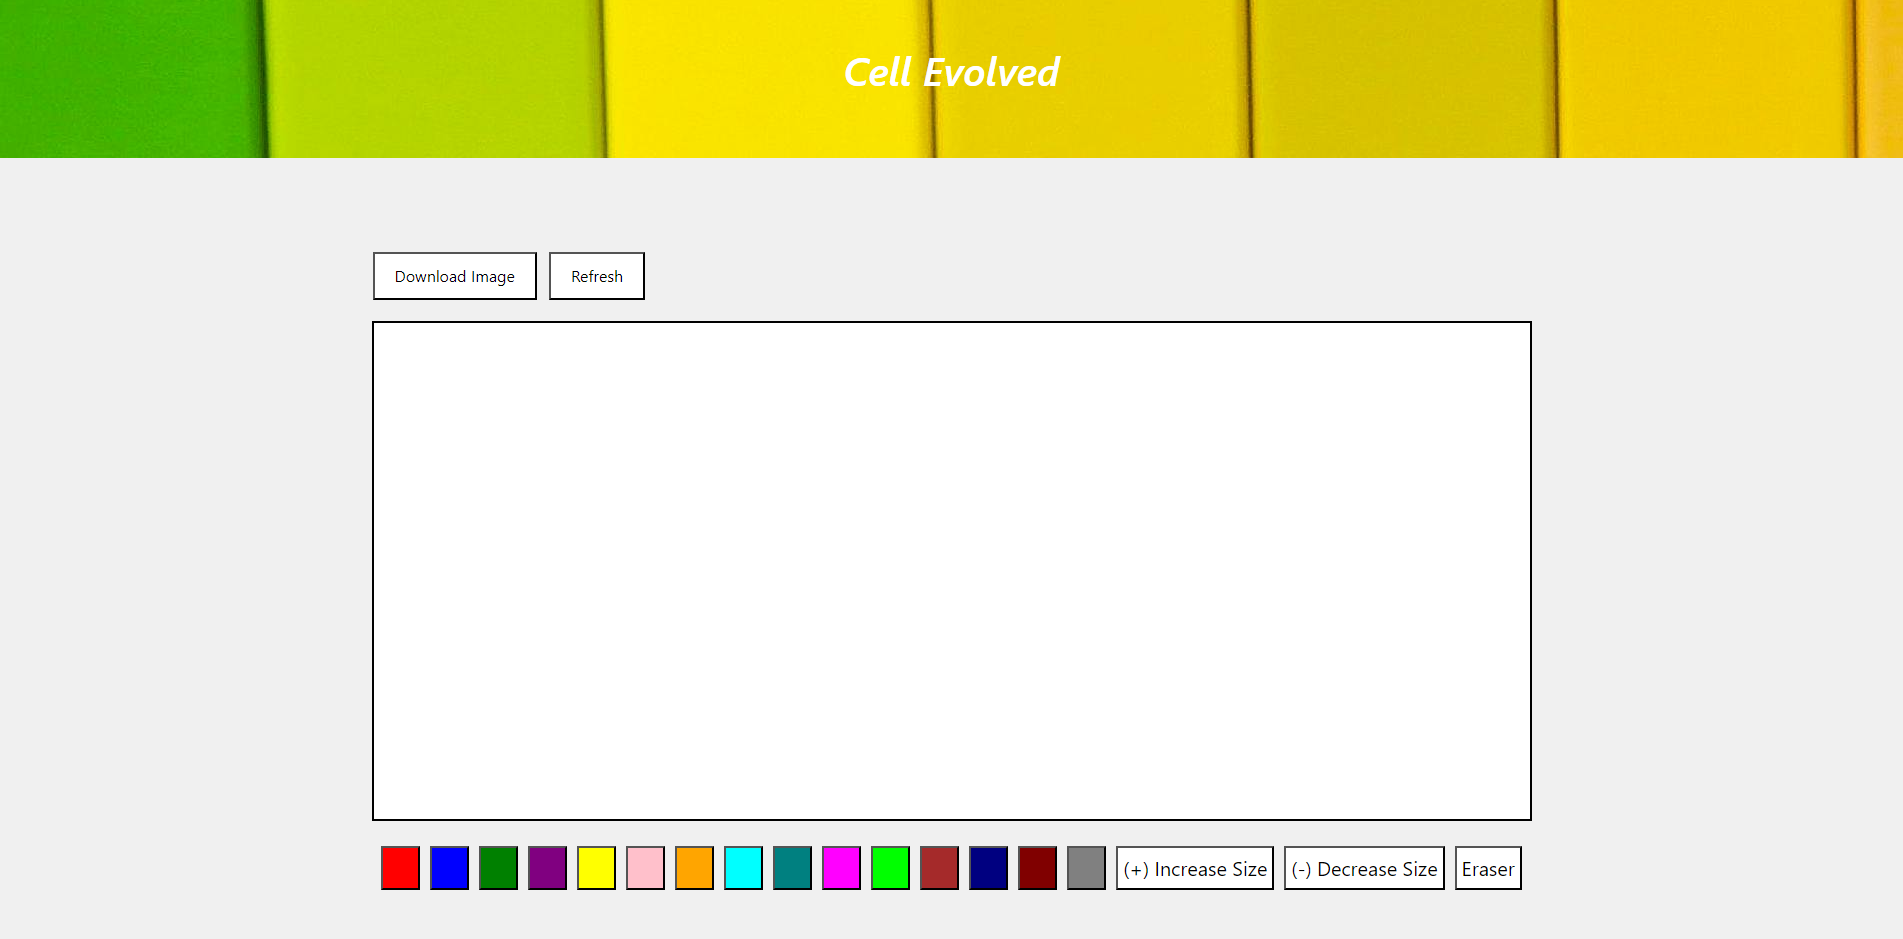
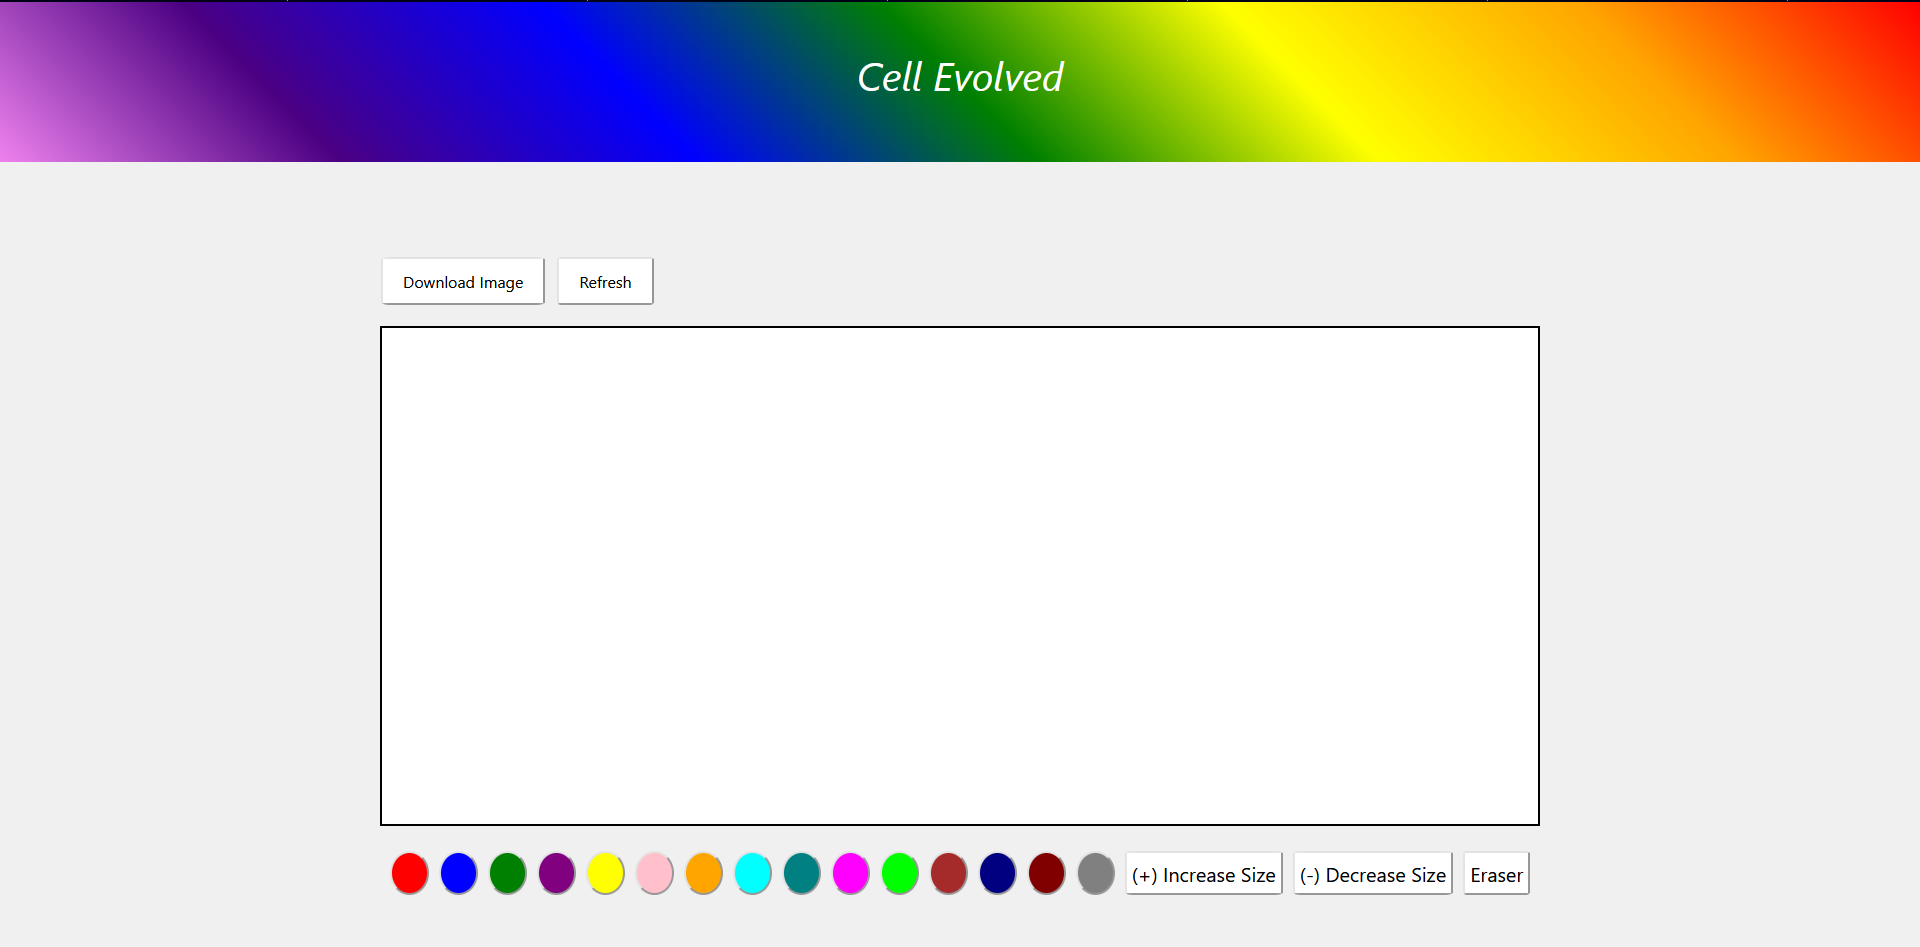
push

Changed region(s): [[0.0, 0.0, 1.0, 0.1853], [0.186, 0.8647, 0.8061, 0.9574], [0.186, 0.2471, 0.8061, 0.3706]]

diff --git a/src/app/app.component.css b/src/app/app.component.css
@@ -1,5 +1,5 @@
 .canvas{
-  background-image: url("/assets/pexels.jpg");
+  background-image: linear-gradient(45deg, violet, indigo, blue, green, yellow, orange, red);;
 }
 
 .main {
